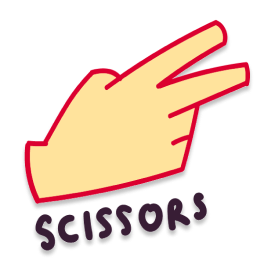
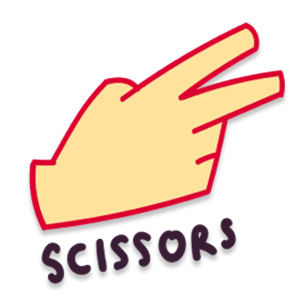
Updated image sizes, HTML header meta, and CSS media queries

diff --git a/style.css b/style.css
@@ -14,16 +14,15 @@ body {
   text-align: center;
   border-color: gray;
   border-radius: 20px;
+  overflow-x: hidden; /* Careful with this */
 }
 
 #container {
   max-width: 4000px;
-  margin: 0 auto;
+  margin: 10px auto;
+  padding: 0 50px; /* Adjust the second value to increase the left and right padding */
 }
 
-button {
-  margin: 5px;
-}
 
 #wager {
   margin-top: 20px;
@@ -56,6 +55,7 @@ h3 {
   font-size: 30px;
   font-style: normal;
   font-weight: 400;
+  /* padding: 0 100px; */
 }
 
 h1 {
@@ -71,6 +71,93 @@ h1 {
 button {
   background-color: transparent;
   outline-style: none;
-  width: 221.1;
-  height: 221.1;
+  margin: 5px;
+  /* width: 221.1;
+  height: 221.1; */
+}
+.button-container {
+  display: flex;
+  flex-direction: row; /* default value, can be omitted */
+  justify-content: center;
+  align-items: center;
+}
+
+.handsymbols, .handsymbols img {
+  display: flex;
+  justify-content: center;
+  align-items: center;
+  object-fit: contain;
+  width: 250px;
+  height: 250px;
+}
+
+
+.coins, .coins img  {
+  display: flex;
+  justify-content: center;
+  align-items: center;
+  width: 100px;
+  height: 100px;
+}
+
+
+
+/***************
+MEDIA QUERIES - For mobile responsiveness
+***************/
+
+@media screen and (max-width: 600px) {
+  /* Styles for screens 600px and smaller */
+  h1 {
+    font-size: 70px;
+  }
+  h3 {
+    padding: 0 25px;
+    /* margin: 15px; */
+  }
+
+  .button-container {
+    flex-direction: column;
+  }
+
+  div#wager.button-container {
+    flex-direction: row !important;
+  }
+  
+
+  .handsymbols, .handsymbols img {
+    width: 200px;
+    height: 200px;
+  }
+  .coins, .coins img {
+    width: 75px;
+    height: 75px;
+  }
+}
+
+@media screen and (min-width: 601px) and (max-width: 1024px) {
+  /* Styles for screens between 601px and 1024px */
+  /* Styles for screens 600px and smaller */
+  h3 {
+    padding: 0 75px;
+    /* margin: 15px; */
+  }
+  
+  .button-container {
+    flex-direction: row;
+  }
+
+  .handsymbols, .handsymbols img {
+    width: 150px;
+    height: 150px;
+  }
+  
+  .coins, .coins img  {
+    width: 100px;
+    height: 100px;
+  }
+}
+
+@media screen and (min-width: 1025px) {
+  /* Styles for screens 1025px and larger */
 }

diff --git a/index.html b/index.html
@@ -4,6 +4,7 @@
 <head>
   <title>RPS Gamble</title>
   <link rel="stylesheet" type="text/css" href="style.css">
+  <meta name="viewport" content="width=device-width, initial-scale=1">
 </head>
 
 <body>
@@ -14,15 +15,15 @@
     <p id="result"></p>
     <p id="score"></p>
     <p id="amount"></p>
-    <div id="buttons">
-      <button onclick="play(1)"><img src="images/ROCK.png"></img></button>
-      <button onclick="play(2)"><img src="images/PAPER.png"></img></button>
-      <button onclick="play(3)"><img src="images/SCISSORS.png"></img></button>
+    <div class="button-container" id="button">
+      <button onclick="play(1)" class="handsymbols"><img src="images/ROCK.png"></img></button>
+      <button onclick="play(2)" class="handsymbols"><img src="images/PAPER.png"></img></button>
+      <button onclick="play(3)" class="handsymbols"><img src="images/SCISSORS.png"></img></button>
     </div>
-    <div id="wager">
-      <button onclick="setWager(1)"><img src="images/1COIN.png"></img></button>
-      <button onclick="setWager(2)"><img src="images/2COIN.png"></img></button>
-      <button onclick="setWager(3)"><img src="images/3COIN.png"></img></button>
+    <div class="button-container" id="wager">
+      <button onclick="setWager(1)" class="coins"><img src="images/1COIN.png"></img></button>
+      <button onclick="setWager(2)" class="coins"><img src="images/2COIN.png"></img></button>
+      <button onclick="setWager(3)" class="coins"><img src="images/3COIN.png"></img></button>
     </div>
   </div>
   <script src="script.js"></script>
